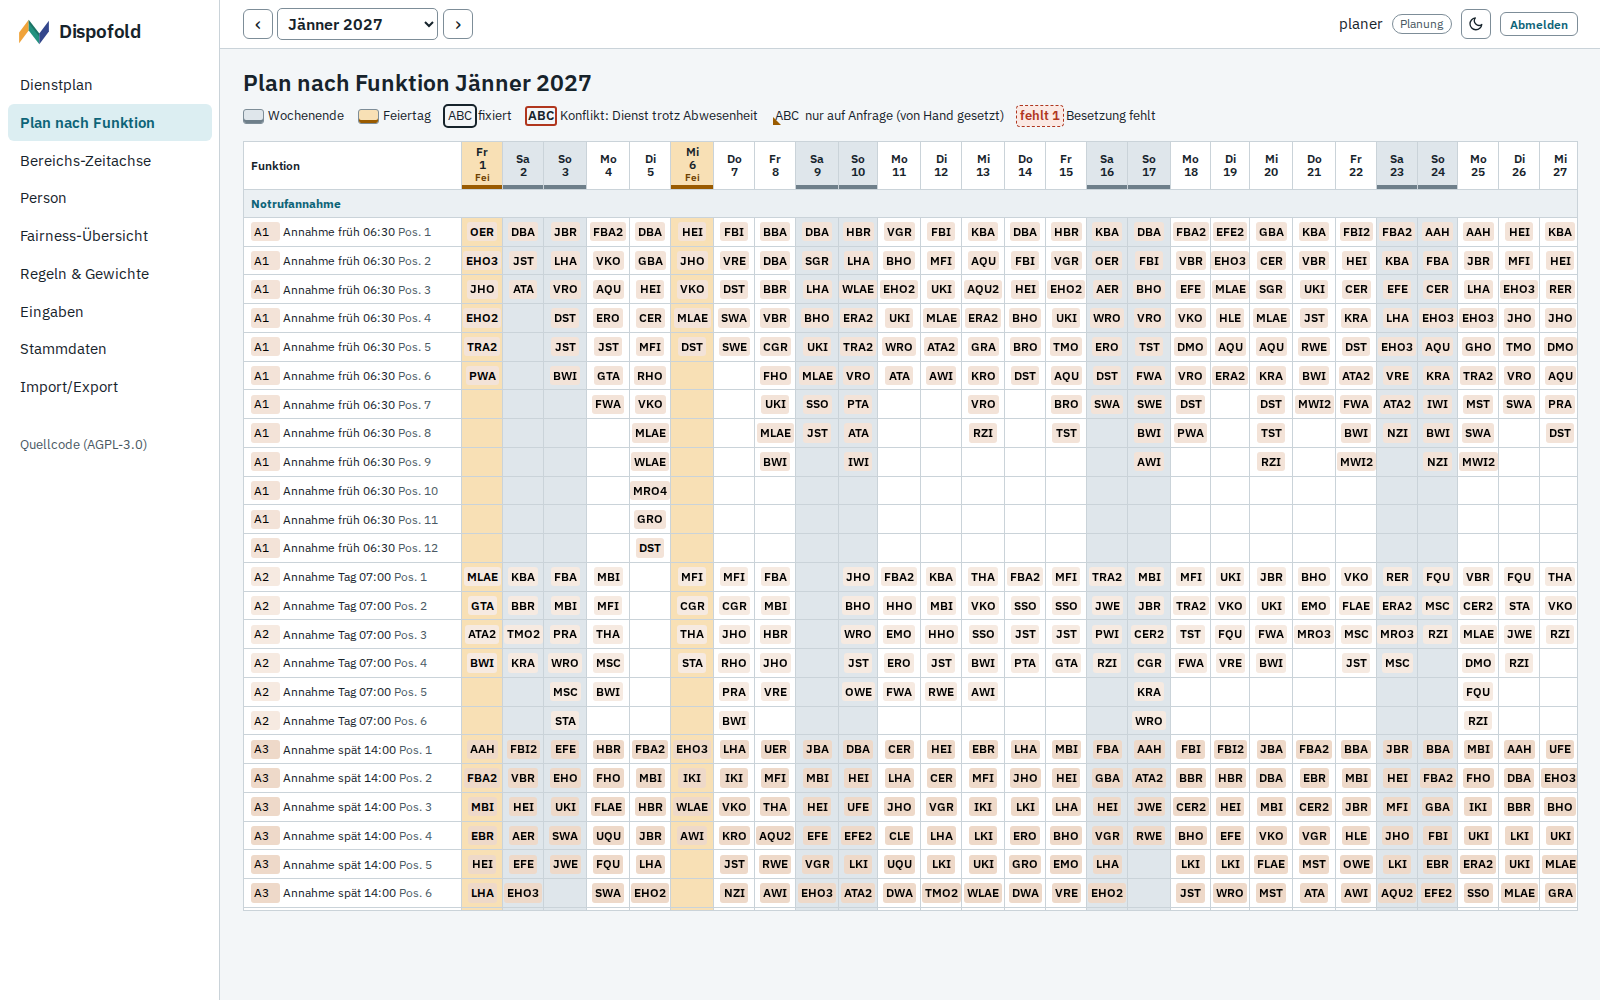
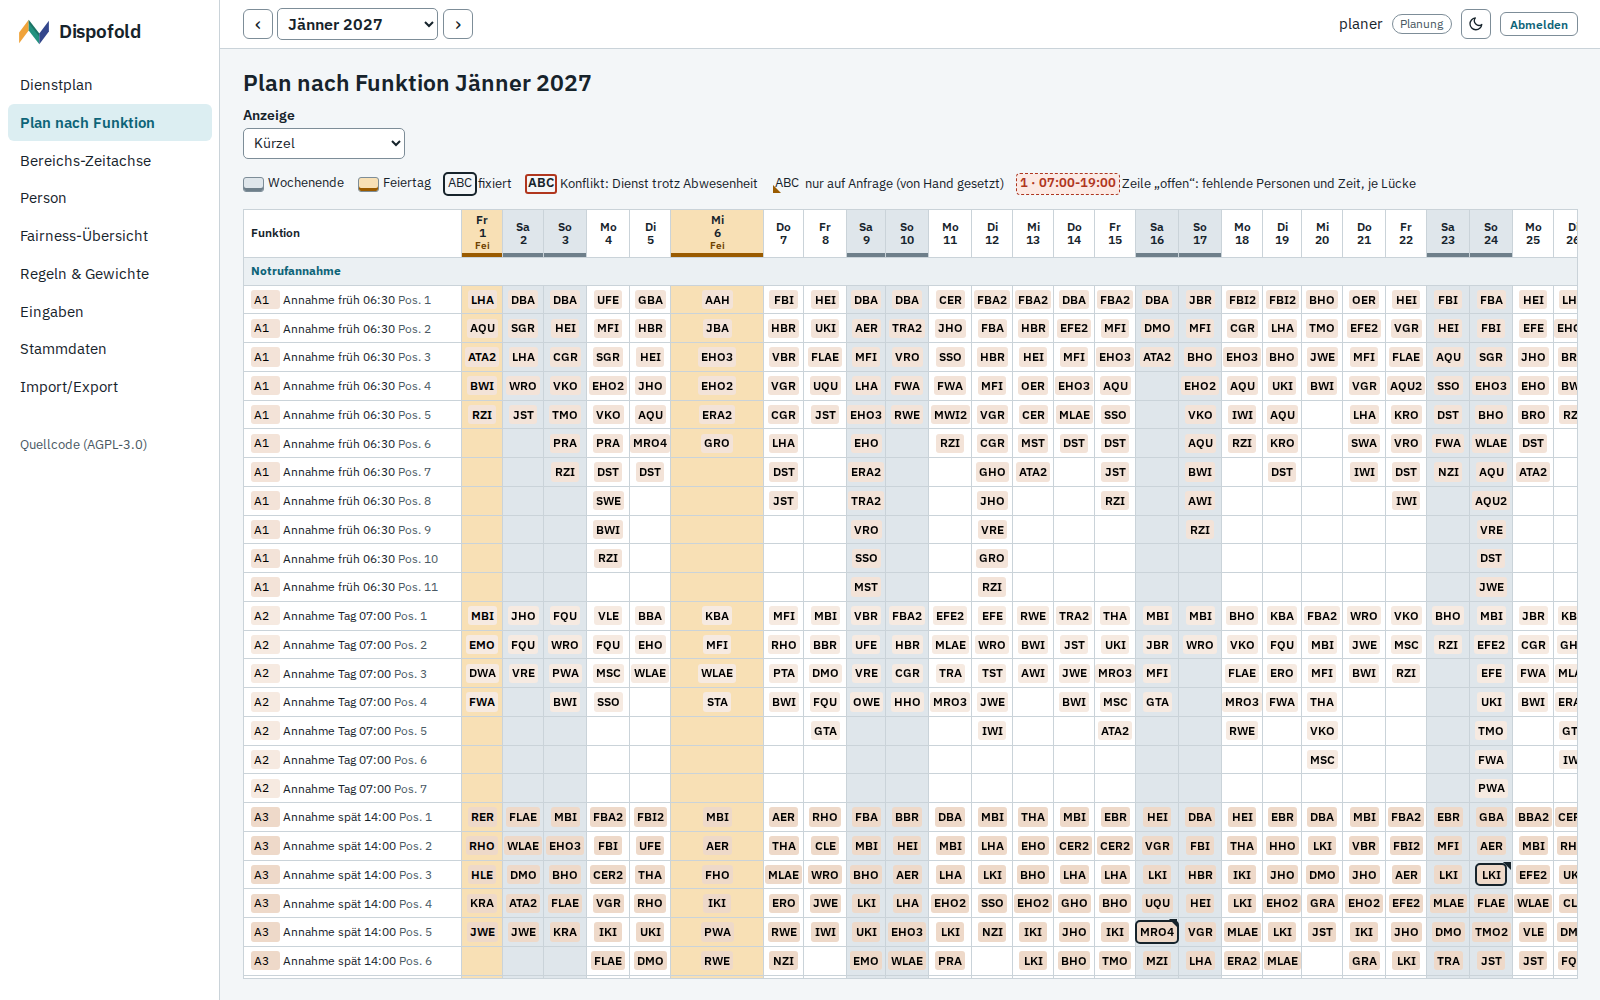
Screenshots of the open row (synthetic demo data); changelog

diff --git a/CHANGELOG.md b/CHANGELOG.md
@@ -3,6 +3,18 @@
 Jede Version steht auch als Release auf GitHub, mit Images, Installationsdateien und Prüfsummen. Installation
 und Update: [docs/betrieb.md](docs/betrieb.md).
 
+## Unveröffentlicht
+
+- **Höchststunden im Monat (harte Regel `maxMonthHours`):** Die angerechneten Stunden einer Person (Dienste,
+  angerechnete Abwesenheiten, Ersatzruhe) dürfen das Ziel des Monats um höchstens eine Toleranz überschreiten,
+  Standard 10 %, auf der Seite Regeln einstellbar. Bisher füllte der Solver Lücken mit Teilzeitkräften bis zur
+  gesetzlichen Wochengrenze auf. Von Hand gesetzte Dienste darüber erscheinen als harter Verstoß; die Liste
+  „Wer kann gefragt werden?“ nennt niemanden, den der Dienst über die Grenze brächte.
+- **Plan nach Funktion:** Eine Bedarfslücke steht nur noch einmal je Bereich, in der Zeile „offen“ mit Zahl und
+  Uhrzeit, statt bei jeder Schicht, die sie überschneidet.
+- Betrieb: keine Änderung an Datenbank, `docker-compose.yml` oder `.env`. Gespeicherte Regeln ohne die neue
+  Toleranz bekommen 10 %.
+
 ## 0.3.0 (2026-11-15)
 
 „Nur auf Anfrage“ heißt jetzt: Die Planung fragt, das Programm plant es nie selbst ein. Neu ist die Ansicht
